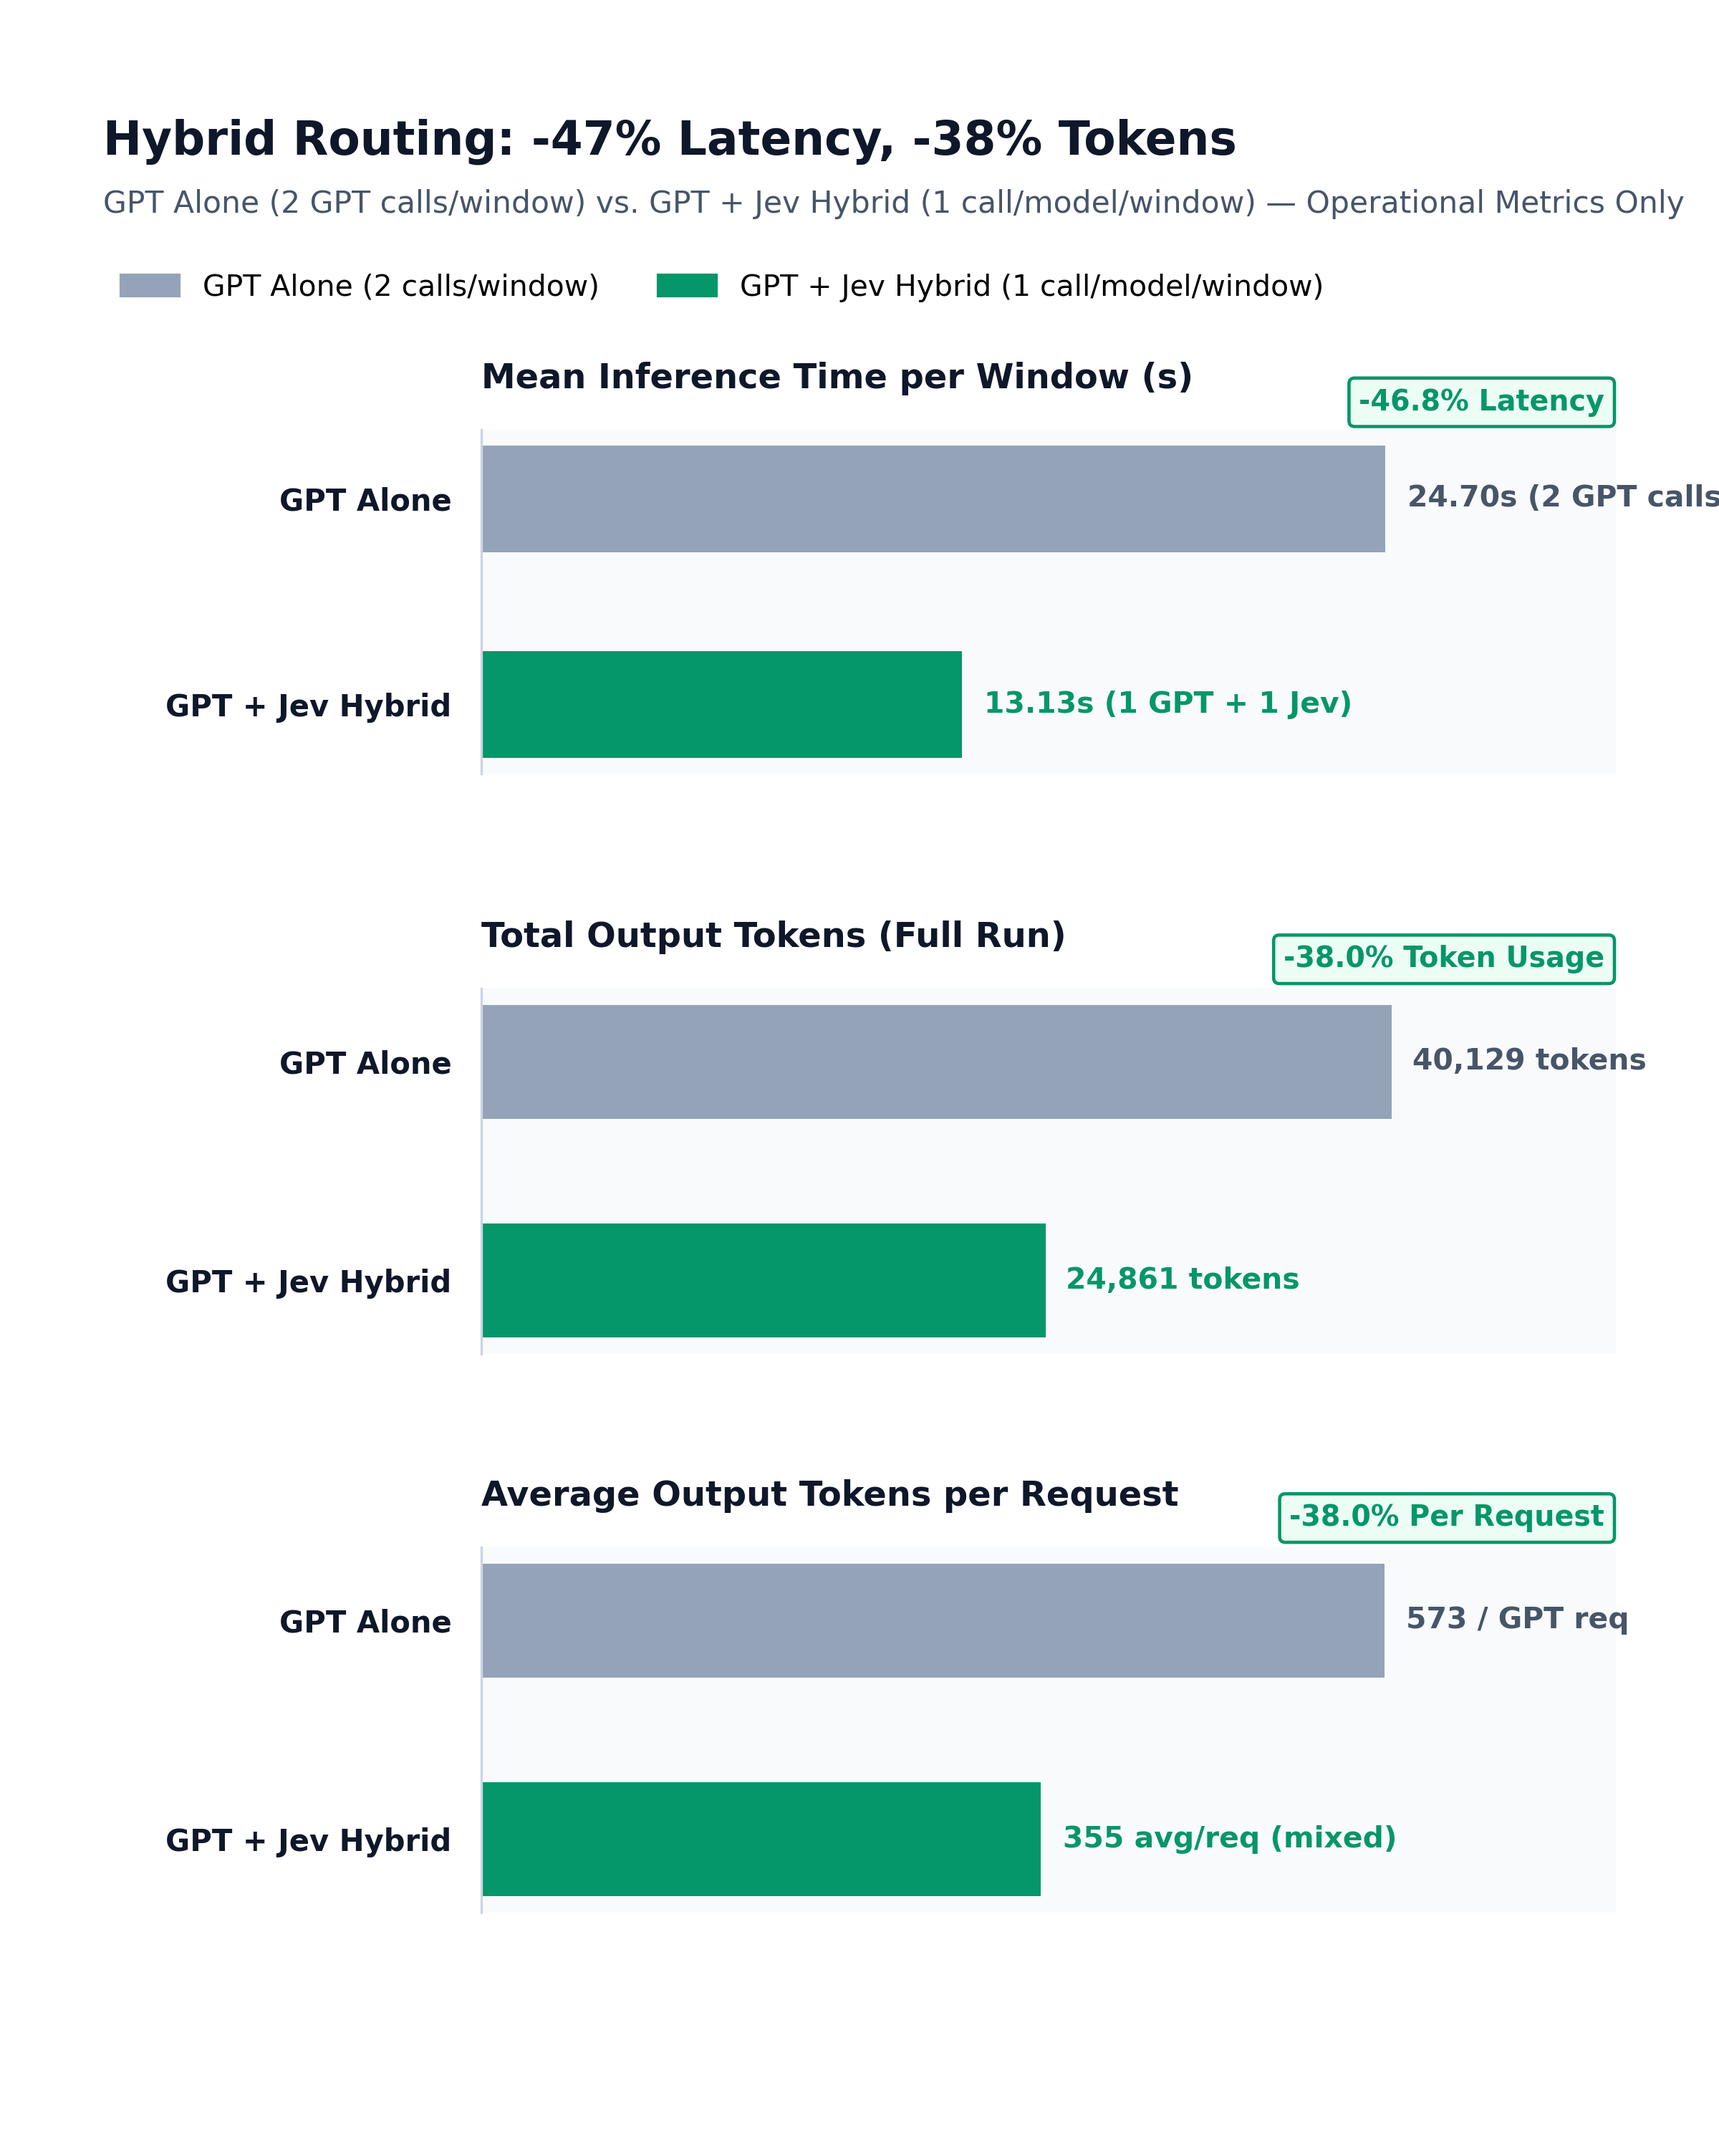
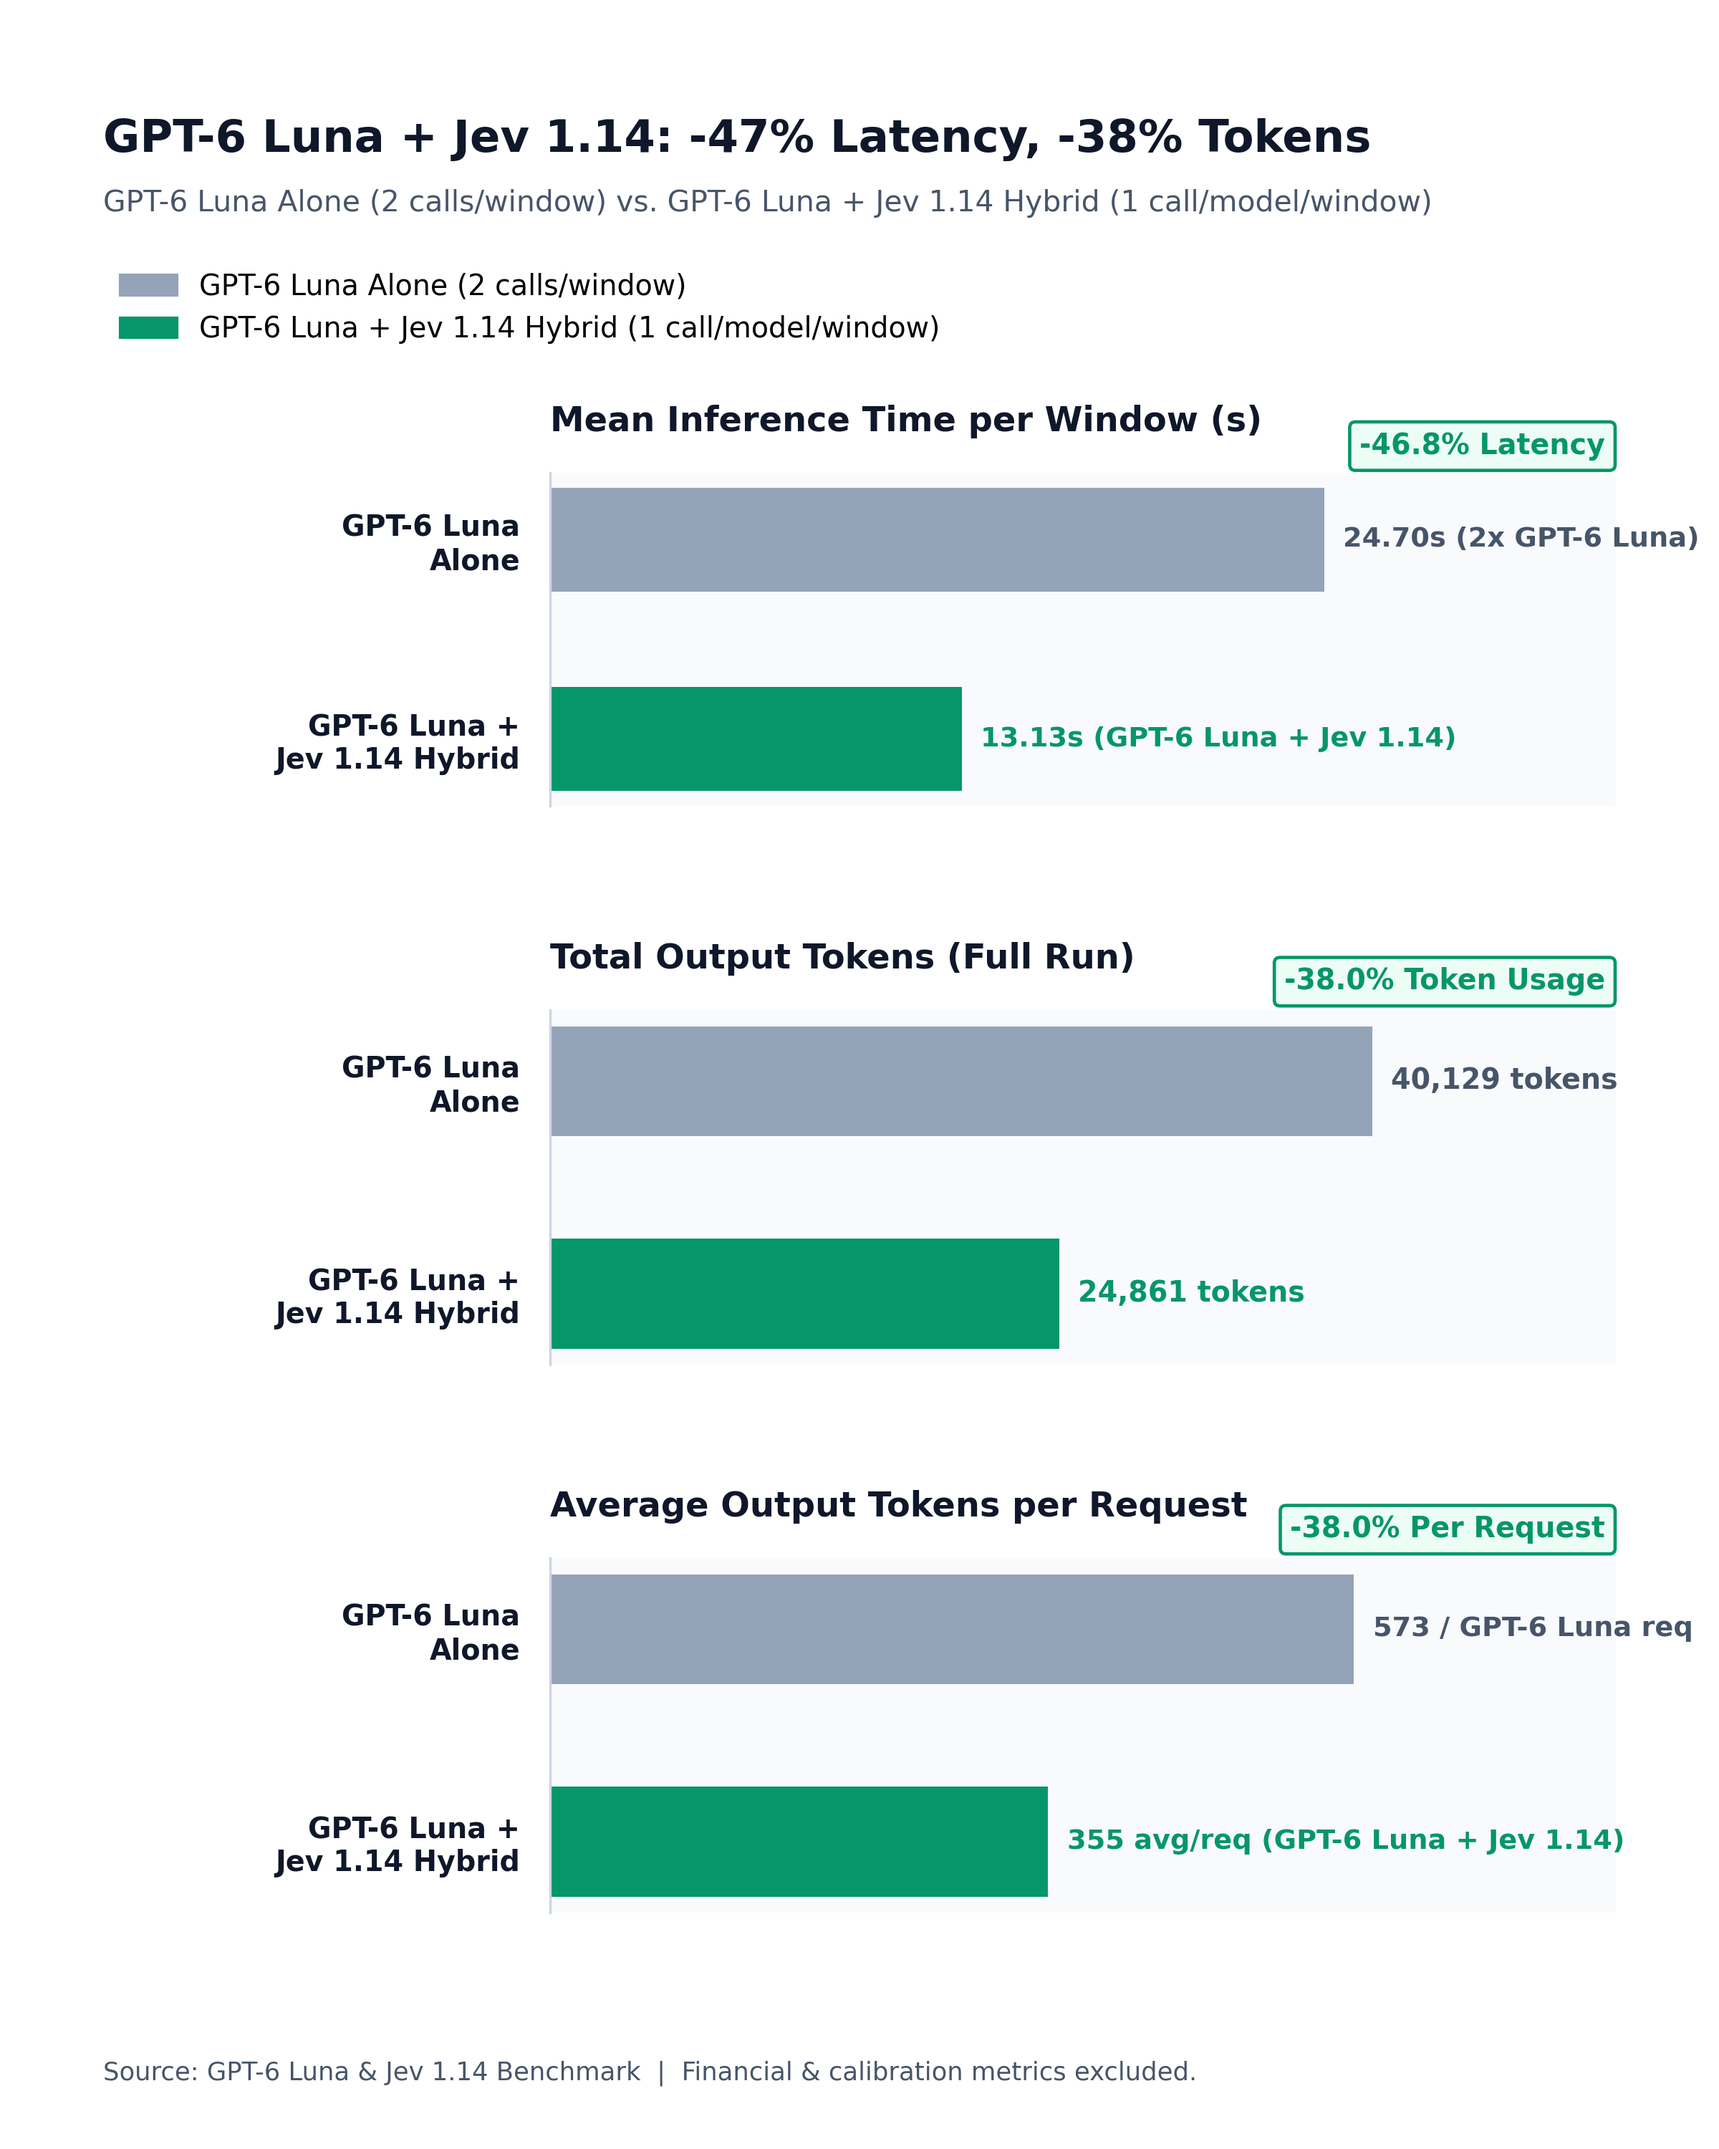
Update hybrid comparison labels and chart

diff --git a/README.md b/README.md
@@ -51,13 +51,13 @@ Recorded candle range for all three standalone runs: **Oct 22, 2026, 06:00 – N
 
 Bold marks only the best value in each metric column (lower is better for Brier, latency, and output tokens). Agreement is repeat-call direction consistency for each standalone model.
 
-### GPT + Jev hybrid compared with GPT alone
+### GPT-6 Luna + Jev 1.14 hybrid compared with GPT-6 Luna alone
 
-The optimized call-mix variant replaces the second GPT call in each window with one Jev call. It is designed to combine GPT with a faster decision model, but is not a controlled proof of improved overall efficiency. Both saved runs contain 35 test windows and 70 inference requests: GPT alone makes two GPT requests per window; the hybrid makes one GPT and one Jev request per window. The hybrid run covers a slightly shifted candle range (two candles later at both ends).
+The optimized call-mix variant replaces the second GPT-6 Luna call in each window with one Jev 1.14 call. It is designed to combine GPT with a faster decision model, but is not a controlled proof of improved overall efficiency. Both saved runs contain 35 test windows and 70 inference requests: GPT-6 Luna alone makes two GPT requests per window; the hybrid makes one GPT and one Jev request per window. The hybrid run covers a slightly shifted candle range (two candles later at both ends).
 
-Recorded candle ranges: **GPT alone:** Oct 22, 2026, 06:00 – Nov 7, 2026, 21:00; **GPT + Jev hybrid:** Oct 22, 2026, 08:00 – Nov 7, 2026, 23:00.
+Recorded candle ranges: **GPT-6 Luna alone:** Oct 22, 2026, 06:00 – Nov 7, 2026, 21:00; **GPT-6 Luna + Jev 1.14 hybrid:** Oct 22, 2026, 08:00 – Nov 7, 2026, 23:00.
 
-| Metric | GPT alone, 2 GPT calls/window | GPT + Jev, 1 call/model/window | Observed difference |
+| Metric | GPT-6 Luna alone, 2 GPT calls/window | GPT-6 Luna + Jev 1.14, 1 call/model/window | Observed difference |
 | --- | ---: | ---: | ---: |
 | Win rate | 55.0% | 77.3% | +22.3 percentage points |
 | Strategy return | +1.01% | +2.69% | +1.68 percentage points |
